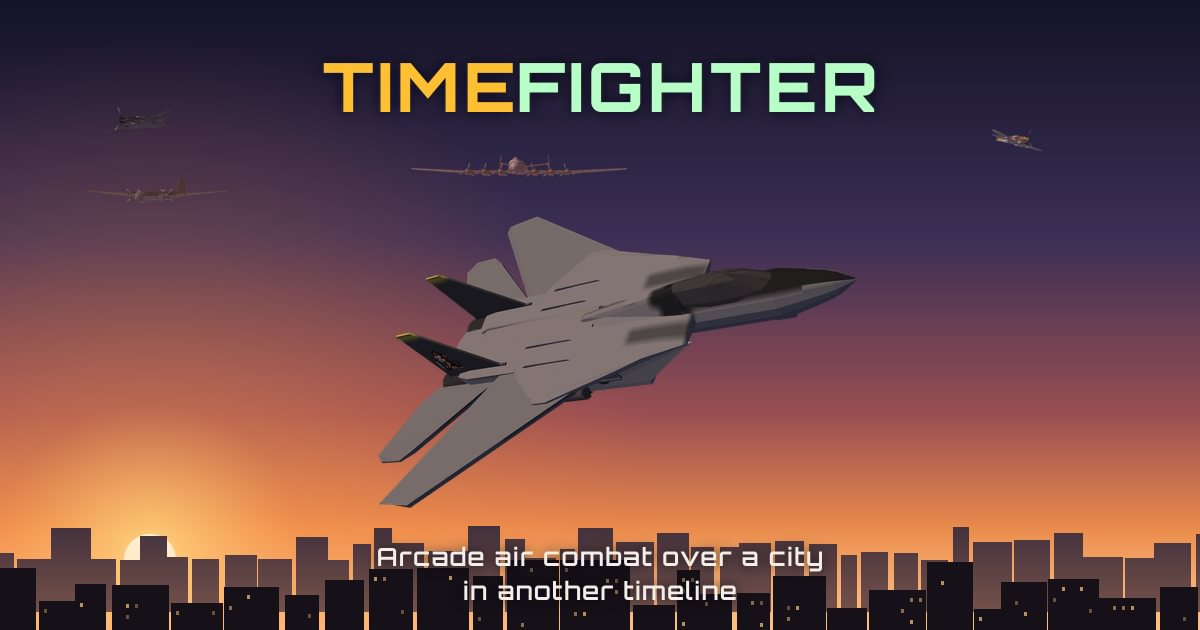
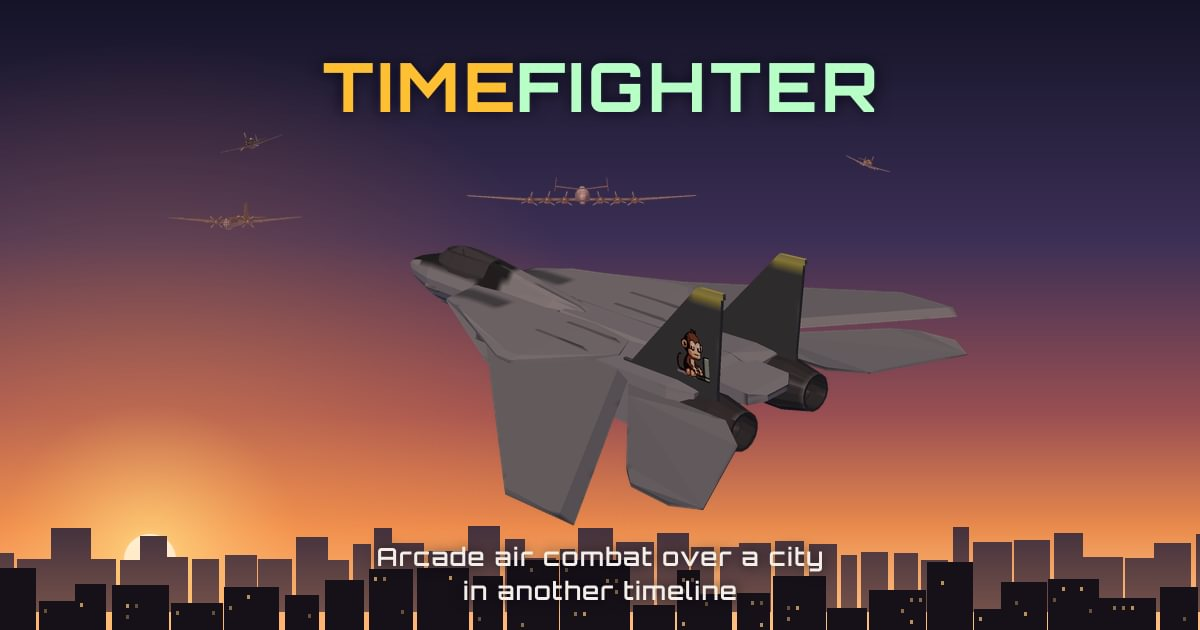
Share image shows the Code Monkey; battle picture; story page
- og-image: the F-14 seen from behind on the left, chasing the formation
  ahead, so the Code Monkey on its left fin is plain to see; wordmark and
  tagline as before, everything important inside the centre square.
- Battle picture: the fighters low on the left, the bombers high on the
  right, for the 2:1 card.
- Start page: the pictures turned square in narrow cards because the
  img height attribute fixed their height next to width: 100%; the CSS
  now sets height: auto, so aspect-ratio 2/1 holds.
- The start page tells the story in two sentences with "Read the story";
  story.html, in the start page's look, has the share picture as its
  header, the full story and "Fly now". build-web.sh copies it.

diff --git a/web/story.html b/web/story.html
@@ -1,0 +1,129 @@
+<!doctype html>
+<html lang="en">
+  <head>
+    <meta charset="utf-8" />
+    <meta name="viewport" content="width=device-width, initial-scale=1" />
+    <title>The story – TimeFighter</title>
+    <meta name="description" content="A routine sortie, one flash of lightning, and your F-14 breaks into a parallel timeline where propeller bombers are heading for the city." />
+    <link rel="canonical" href="https://timefighter.trendgegner.com/story.html" />
+    <meta name="theme-color" content="#161421" />
+    <link rel="icon" type="image/png" sizes="32x32" href="img/favicon-32.png" />
+    <link rel="apple-touch-icon" sizes="180x180" href="img/apple-touch-icon.png" />
+    <meta property="og:type" content="article" />
+    <meta property="og:site_name" content="TimeFighter" />
+    <meta property="og:title" content="The story – TimeFighter" />
+    <meta property="og:url" content="https://timefighter.trendgegner.com/story.html" />
+    <meta property="og:image" content="https://timefighter.trendgegner.com/img/og-image.jpg" />
+    <meta property="og:image:width" content="1200" />
+    <meta property="og:image:height" content="630" />
+    <!-- Orbitron (SIL Open Font License, fonts/OFL.txt), served locally: no third-party requests. -->
+    <link rel="preload" href="fonts/Orbitron-Variable.ttf" as="font" type="font/ttf" crossorigin />
+    <style>
+      @font-face {
+        font-family: "Orbitron";
+        src: url("fonts/Orbitron-Variable.ttf") format("truetype");
+        font-weight: 400 900;
+        font-style: normal;
+        font-display: swap;
+      }
+      /* Same palette and sky as the start page (index.html). */
+      :root {
+        --hud: #b8ffc7;
+        --hud-dim: rgba(184, 255, 199, 0.55);
+        --amber: #ffbf33;
+        --ink: #e8f2ea;
+        --panel: rgba(6, 10, 14, 0.78);
+        --sky-top: #142130;
+        --sky-mid: #2c3b4d;
+        --sky-low: #47566a;
+        --glow: rgba(150, 190, 230, 0.25);
+      }
+      body.evening {
+        --sky-top: #161421;
+        --sky-mid: #3a2c3c;
+        --sky-low: #7a4b3f;
+        --glow: rgba(255, 160, 90, 0.35);
+      }
+      html { background: #0b1218; }
+      body {
+        margin: 0; min-height: 100vh; padding: 16px; box-sizing: border-box;
+        display: grid; place-items: center;
+        font: 17px/1.7 system-ui, -apple-system, "Segoe UI", sans-serif; color: var(--ink);
+        background:
+          radial-gradient(ellipse at 50% 115%, var(--glow), transparent 62%) fixed,
+          linear-gradient(180deg, var(--sky-top) 0%, var(--sky-mid) 58%, var(--sky-low) 100%) fixed;
+      }
+      a { color: var(--hud); text-underline-offset: 3px; }
+      a:hover, a:focus-visible { color: var(--amber); }
+
+      .card {
+        width: min(760px, 100%); box-sizing: border-box;
+        background: var(--panel); border: 1px solid var(--hud-dim);
+      }
+      /* The share picture as the header: jet, formation, wordmark. */
+      .hero { display: block; width: 100%; height: auto; aspect-ratio: 1200 / 630; }
+      .text { padding: 26px 36px 24px; }
+      h1 {
+        margin: 0 0 18px; font-family: "Orbitron", system-ui, sans-serif; font-weight: 600;
+        font-size: 12px; letter-spacing: 0.32em; text-transform: uppercase; color: var(--hud-dim);
+      }
+      .story { max-width: 60ch; margin: 0 auto; }
+      .story p { margin: 0 0 1em; }
+      .story p:first-child::first-letter {
+        float: left; margin: 0.08em 0.12em 0 0; font-family: "Orbitron", system-ui, sans-serif;
+        font-weight: 800; font-size: 3.1em; line-height: 0.8; color: var(--amber);
+      }
+      .story .last { color: var(--hud); font-weight: 600; }
+
+      .fly {
+        display: block; width: max-content; margin: 22px auto 4px; padding: 12px 40px;
+        font-family: "Orbitron", system-ui, sans-serif; font-weight: 800; font-size: 18px; letter-spacing: 0.2em;
+        color: #0b1218; background: var(--hud); text-decoration: none;
+      }
+      .fly:hover, .fly:focus-visible { color: #0b1218; background: var(--amber); outline: none; }
+
+      @media (max-width: 640px) {
+        body { padding: 10px; font-size: 16px; }
+        .text { padding: 20px 18px 16px; }
+      }
+    </style>
+  </head>
+  <body>
+    <main class="card">
+      <a href="./"><img class="hero" src="img/og-image.jpg" alt="TimeFighter: an F-14 Tomcat chasing a formation of propeller bombers and fighters over an evening city" width="1200" height="630" /></a>
+      <div class="text">
+        <h1>The story</h1>
+        <div class="story">
+          <p>
+            A routine training sortie from your home airbase. A storm front that no forecast saw
+            coming, one blinding flash of lightning, and your jet breaks out of the clouds into a
+            parallel timeline.
+          </p>
+          <p>
+            The city below looks familiar, but your airbase is gone, the radio is only static, and
+            a wave of propeller bombers is heading for the rooftops.
+          </p>
+          <p class="last">You are the only thing in the sky that can stop them.</p>
+        </div>
+        <a class="fly" href="./">FLY NOW</a>
+      </div>
+    </main>
+
+    <script>
+      // Day or evening tint as chosen on the start page (same storage key),
+      // else the browser's dark/light preference. Nothing is sent anywhere.
+      let light = '';
+      try {
+        const line = localStorage.getItem('timefighter.menu') ?? '';
+        const pair = line.split(';').find((p) => p.startsWith('light='));
+        light = pair ? pair.slice('light='.length) : '';
+      } catch {
+        // No storage (private window): fall back below.
+      }
+      if (light !== 'day' && light !== 'evening') {
+        light = matchMedia('(prefers-color-scheme: dark)').matches ? 'evening' : 'day';
+      }
+      document.body.classList.toggle('evening', light === 'evening');
+    </script>
+  </body>
+</html>

diff --git a/web/index.html b/web/index.html
@@ -87,6 +87,8 @@
         margin: 0 0 24px; max-width: 62ch; font-size: 16px; color: var(--ink);
         border-left: 2px solid var(--amber); padding-left: 14px;
       }
+      .story a { color: var(--hud); white-space: nowrap; text-underline-offset: 3px; }
+      .story a:hover, .story a:focus-visible { color: var(--amber); }
 
       h2 {
         margin: 0 0 10px; font-family: "Orbitron", system-ui, sans-serif; font-weight: 600;
@@ -100,7 +102,9 @@
         color: var(--ink); background: rgba(255, 255, 255, 0.03); border: 1px solid var(--hud-dim);
         font: inherit;
       }
-      .mode img { width: 100%; aspect-ratio: 2 / 1; object-fit: contain; display: block; }
+      /* height: auto, or the img height attribute fixes the height and the
+         picture turns square in a narrow card. */
+      .mode img { width: 100%; height: auto; aspect-ratio: 2 / 1; object-fit: contain; display: block; }
       /* Name on its own line, the one-liner below. */
       .mode div { display: flex; flex-direction: column; gap: 4px; }
       .mode strong {
@@ -161,12 +165,9 @@
         <h1 class="logo"><span class="time">TIME</span><span class="fighter">FIGHTER</span></h1>
         <p class="tagline">Arcade air combat · another timeline</p>
         <p class="story">
-          A routine training sortie from your home airbase. A storm front that no
-          forecast saw coming, one blinding flash of lightning, and your jet
-          breaks out of the clouds into a parallel timeline. The city below looks
-          familiar, but your airbase is gone, the radio is only static, and a wave
-          of propeller bombers is heading for the rooftops. You are the only thing
-          in the sky that can stop them.
+          A routine sortie, one flash of lightning, and your jet breaks into a parallel
+          timeline. Propeller bombers are heading for the city, and you are the only one who
+          can stop them. <a href="story.html">Read the story</a>
         </p>
 
         <section>
@@ -223,6 +224,7 @@
         <div class="status" id="status" aria-live="polite">Loading the game…</div>
 
         <footer>
+          <a href="story.html">Story</a>
           <a href="showroom.html">Aircraft showroom</a>
           <a href="credits.html">Credits</a>
         </footer>
